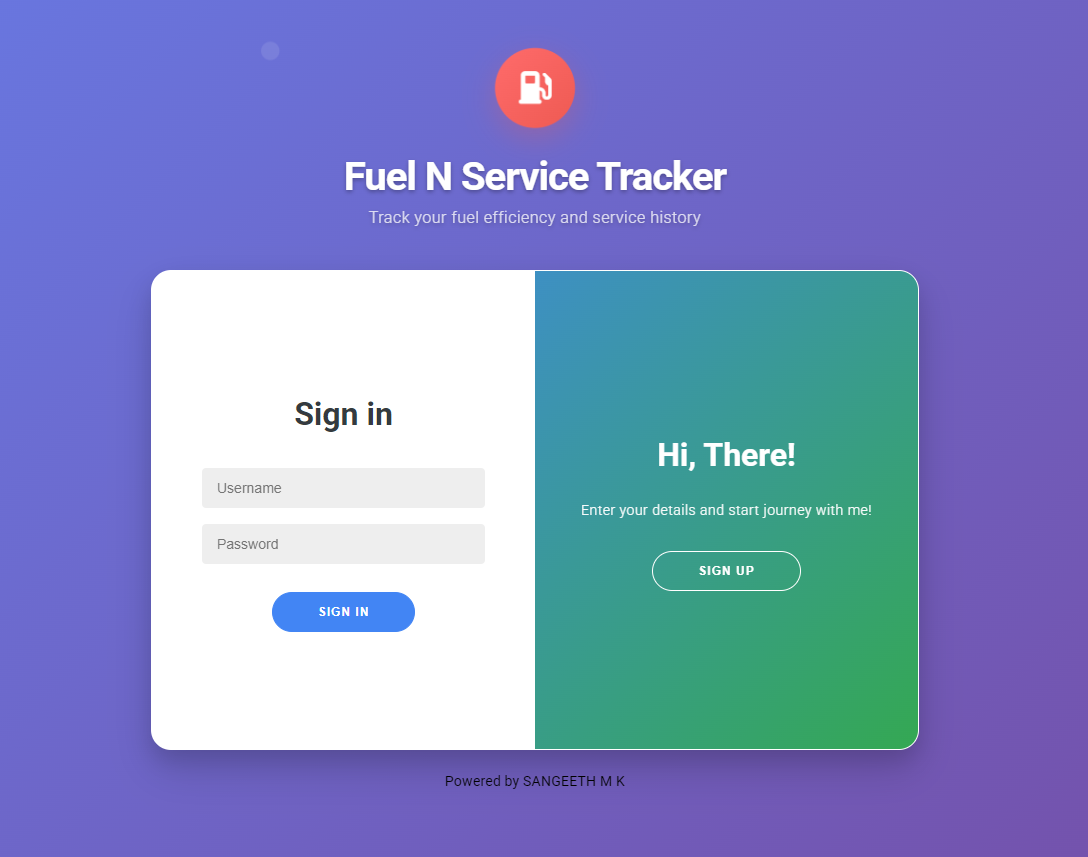
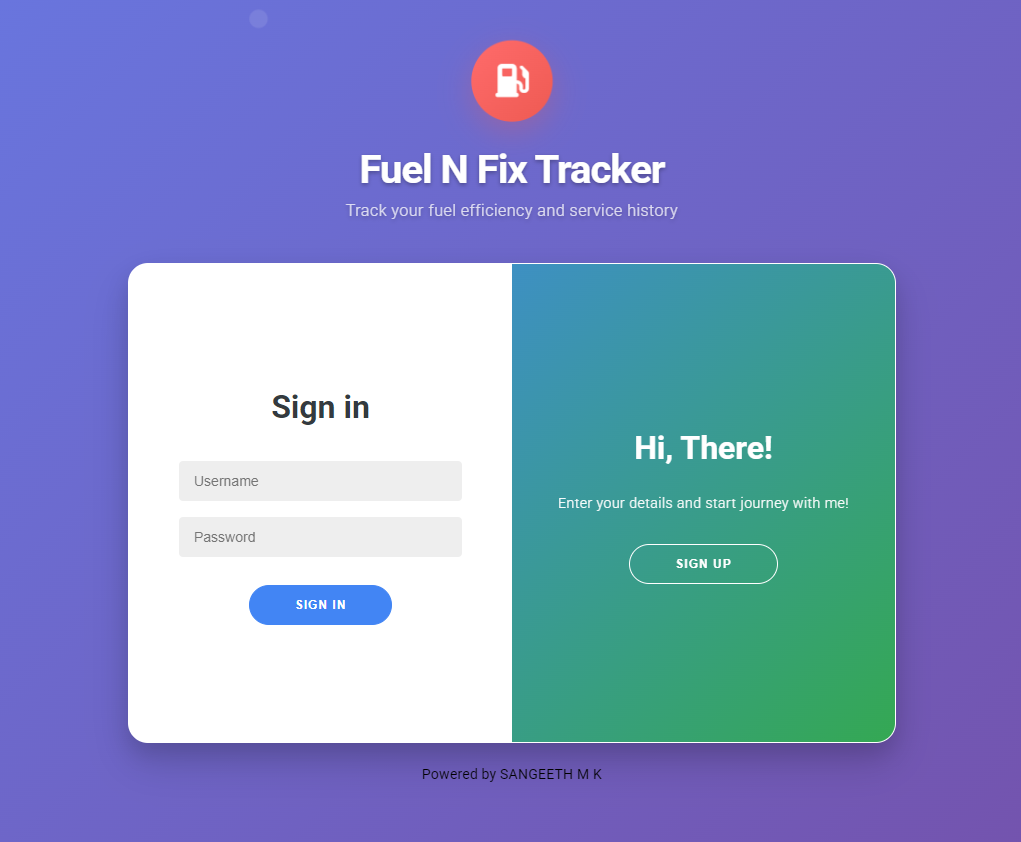
title changed2

diff --git a/index.html b/index.html
@@ -311,7 +311,7 @@
                         <img class="portfolio-card-img" src="assets/imgs/fuel.PNG" class="img-responsive rounded">
                         <span class="portfolio-card-overlay">
                             <span class="portfolio-card-caption">
-                                <h4>Fuel N Service Tracker</h4>
+                                <h4>Fuel N Fix Tracker</h4>
                                     <p class="font-weight-normal">Created FuelNFix, a secure web application to track vehicle fuel efficiency and service history. Implemented JWT token-based authentication for secure access, allowing users to log fuel usage, manage service records, and analyze consumption trends. Developed with modern web technologies for a responsive UI and protected backend APIs, ensuring a seamless and safe user experience.</p>
                             </span>
                         </span>
